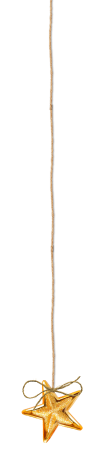
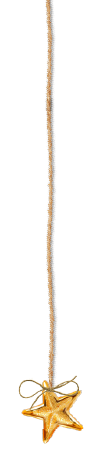
almost finished refactoring, also optimized images

Changed region(s): [[0.1731, 0.0, 0.8077, 0.9956]]

diff --git a/css/desktop.css b/css/desktop.css
@@ -298,6 +298,14 @@ html, body {
 
 
 /*===================== PAGE III =====================*/
+#thirdpage{
+	width: 100vw;
+	height: 100vh;
+	z-index: 10;
+	background: #000 url('../img/floor/woodfloor.jpg') no-repeat fixed bottom;
+	background-size: 100vw 10vh;
+
+}
 /**************** HANGIN STARS ********************/
 @-moz-keyframes swing{
 	0%{-moz-transform:rotate(-3deg)}
@@ -313,12 +321,12 @@ html, body {
 	height: 40vh;
 	width: auto;
 	z-index: 10000;
-	top: -15vh;
+	top: -65vh;
 }
 
 /*=========STAR A==========*/
 #starA{
-	left: 2%;
+	left: 2vw;
 	-moz-animation: 3s ease 0s normal none infinite swing;
 	-moz-transform-origin: center top;
 	-webkit-animation:swing 3s infinite ease-in-out;
@@ -326,7 +334,7 @@ html, body {
 }
 /*=========STAR B==========*/
 #starB{
-	left: 18%;
+	left: 18vw;
 	-moz-animation: 3.5s ease 0s normal none infinite swing;
 	-moz-transform-origin: center top;
 	-webkit-animation:swing 3.5s infinite ease-in-out;
@@ -334,7 +342,7 @@ html, body {
 }
 /*=========STAR C==========*/
 #starC{
-	left: 35%;
+	left: 35vw;
 	-moz-animation: 3.1s ease 0s normal none infinite swing;
 	-moz-transform-origin: center top;
 	-webkit-animation:swing 3.1s infinite ease-in-out;
@@ -342,7 +350,7 @@ html, body {
 }
 /*=========STAR D==========*/
 #starD{
-	left: 59%;
+	left: 59vw;
 	-moz-animation: 3.3s ease 0s normal none infinite swing;
 	-moz-transform-origin: center top;
 	-webkit-animation:swing 3.3s infinite ease-in-out;
@@ -358,18 +366,18 @@ html, body {
 }
 
 
-/*======DONUT CONTACT========*/
-#donutcontainer{
-	top:20%;
-	left: 92%;
+/*======BURGER CONTACT========*/
+#burgercontainer{
+	top: -70vh;
+	left: 92vw;
 }
-#donutcontainer:hover > #contactword{
+#burgercontainer:hover > #contactword{
 	-webkit-filter: brightness(1);
 	filter: brightness(1);
 	cursor: pointer;
 	cursor: hand;
 }
-#donut{
+#burger{
 	transition: .6s filter linear;
 	-webkit-transition: .6s -webkit-filter linear;
 	-moz-transition: .6s -moz-filter linear;
@@ -382,7 +390,7 @@ html, body {
 	-webkit-animation:swing 3.1s infinite ease-in-out;
 	-webkit-transform-origin:top;
 }
-#donut:hover{
+#burger:hover{
 	-webkit-filter: brightness(1);
 	filter: brightness(1);
 	cursor: pointer;
@@ -391,8 +399,8 @@ html, body {
 #contactword{
 	position: absolute;
 	z-index: 3;
-	top: 103%;
-	left: -45%;
+	top: 120%;
+	left: 0%;
 
 	max-height: 3vh;
 	min-height: 3vh;
@@ -410,14 +418,14 @@ html, body {
 }
 
 
-/*=========ICONS=========*/
+/********************ICONS********************/
+.iconContainer{
+	z-index: 1000000;
+	top: -100vw;	
+}
 .icon{
-	max-height: 75vh;
-	min-height: 75vh;
+	height: 75vh;
 	width: auto;
-
-
-
 
 	-webkit-filter: brightness(0.4);
 	filter: brightness(0.4);
@@ -429,10 +437,22 @@ html, body {
 	-ms-transition: .6s -ms-filter linear;
 	-o-transition: .6s -o-filter linear;	
 }
-.clicker:hover ~ .icon{
-	-webkit-filter: brightness(1);
-	filter: brightness(1);
+#newspaperContainer{
+	left: 10vw;
 }
+#suitContainer{
+	left: 30vw;
+}
+#briefcaseContainer{
+	left: 50vw;
+}
+#octocatContainer{
+	left: 72vw;
+}
+#pianoContainer{
+	left: 90vw;
+}
+
 
 /*=====ICON CLICKABLE AREA========*/
 .clicker{
@@ -449,6 +469,10 @@ html, body {
 	top: 60vh;
 	cursor: pointer;
 	cursor: hand;
+}
+.clicker:hover ~ .icon{
+	-webkit-filter: brightness(1);
+	filter: brightness(1);
 }
 #newspaperclicker{
 	/*left: -28%;*/

diff --git a/newnewindex.html b/newnewindex.html
@@ -123,19 +123,19 @@
 			<!-- ======= BG HANGING STARS -->
 			<div id="bgHanging">
 			<!-- STAR 1 -->
-				<img src="img/stars/star_3.png" alt="star 1" class="fixed dim bg-star fullcentered" id="starA">
+				<img src="img/stars/star_3.png" alt="star 1" class="dim bg-star fullcentered fixed" id="starA">
 			<!-- STAR 2 -->
-				<img src="img/stars/star_2.png" alt="star 1" class="fixed dim bg-star fullcentered" id="starB">
+				<img src="img/stars/star_2.png" alt="star 1" class="dim bg-star fullcentered fixed" id="starB">
 			<!-- STAR 3 -->
-				<img src="img/stars/star_1.png" alt="star 1" class="fixed dim bg-star fullcentered" id="starC">
+				<img src="img/stars/star_1.png" alt="star 1" class="dim bg-star fullcentered fixed" id="starC">
 			<!-- STAR 4 -->
-				<img src="img/stars/star_4.png" alt="star 1" class="fixed dim bg-star fullcentered" id="starD">
+				<img src="img/stars/star_4.png" alt="star 1" class="dim bg-star fullcentered fixed" id="starD">
 			<!-- STAR 5 -->
-				<img src="img/stars/star_5.png" alt="star 1" class="fixed dim bg-star fullcentered" id="starE">
+				<img src="img/stars/star_5.png" alt="star 1" class="dim bg-star fullcentered fixed" id="starE">
 
 			<!-- CONTACT -->
-				<div class="fixed bg-star fullcentered" id="donutcontainer">
-					<img src="img/icons/donut.png" alt="contact menu" class="dim" id="donut">	
+				<div class="bg-star fixed" id="burgercontainer">
+					<img src="img/stars/burger.png" alt="contact menu" class="dim" id="burger">	
 					<img src="img/words/contact.png" alt="contact" class="dim" id="contactword">
 				</div>
 			</div>
@@ -144,7 +144,7 @@
 			<!-- ================ICONS================ -->
 			<div id="icons">
 			<!-- Newspaper -->
-				<div class="fixed">
+				<div id="newspaperContainer" class="fixed iconContainer centered">
 					<!-- Clickable -->
 					<a href="http://www.thomaswrotethis.com/" id="newspaperclicker" class="clicker" target="_blank" style="target-new: tab;"></a>
 					<!-- Icon -->
@@ -156,7 +156,7 @@
 				<div class="shadow centered" id="newspapershadow"></div>
 				
 			<!-- Suit -->
-				<div class="fixed">
+				<div id="suitContainer" class="fixed iconContainer centered">
 					<!-- Clickable -->
 					<a href="http://www.linkedin.com/in/thomasjedstrom" id="suitclicker" class="clicker" target="_blank" style="target-new: tab;"></a>
 					<!-- Icon -->
@@ -168,7 +168,7 @@
 				<div class="shadow centered" id="suitshadow"></div>
 
 			<!-- Briefcase / Portfolio -->
-				<div class="fixed">
+				<div id="briefcaseContainer" class="fixed iconContainer centered">
 					<!-- Clickable -->
 					<div id="briefcaseclicker" class="clicker"></div>
 					<!-- Icon -->
@@ -180,7 +180,7 @@
 				<div class="shadow centered" id="briefcaseshadow"></div>
 
 			<!-- Octocat -->
-				<div class="fixed">
+				<div id="octocatContainer" class="fixed iconContainer centered">
 					<!-- Clickable -->
 					<a href="http://www.github.com/thomasjedstrom" id="octocatclicker" class="clicker" target="_blank" style="target-new: tab;"></a>
 					<!-- Icon -->
@@ -192,7 +192,7 @@
 				<div class="shadow centered" id="octocatshadow"></div>
 
 			<!-- PIANO -->
-				<div class="fixed">
+				<div id="pianoContainer" class="fixed iconContainer centered">
 					<!-- Clickable -->
 					<div id="pianoclicker" class="clicker"></div>
 					<!-- Icon -->

diff --git a/js/app.js b/js/app.js
@@ -50,10 +50,12 @@ $(function () {
 	var $isAnimatedSecond = $('.is-animated'),
 		$isAnimatedSecondSingle = $('.second .is-animated__single');
 
-	var $curtainL = $('#curtain1'),
-		$curtainR = $('#curtain2'),
-		$bgHanging = $('#bgHanging'),
-		$fader = $('.fader');
+	var $curtainL	= $('#curtain1'),
+		$curtainR	= $('#curtain2'),
+		$fader 		= $('.fader'),
+		$bgHanging	= $('.bg-star'),
+		$icon 		= $('.iconContainer');
+		
 
 	// initialize fullPage
 	$('#fullpage').fullpage({
@@ -66,13 +68,16 @@ $(function () {
 				$curtainL.animate({'left': "-=50vw"}, "slow");
 				$curtainR.animate({'left': "+=50vw"}, "slow");
 				$fader.fadeOut('slow');
-				// $bgHanging.addClass('animated slideInDown');
+				$bgHanging.animate({'top': "+=50vh"}, "slow");
+				$icon.animate({'top': "+=132vh"}, 1200);
 
 			// Page 3 - Page 2
 			}else if( index == 3 && direction == 'up') {
 				$curtainL.animate({'left': "+=50vw"}, "slow");
 				$curtainR.animate({'left': "-=50vw"}, "slow");
 				$fader.fadeIn('slow');
+				$bgHanging.animate({'top': "-=50vh"}, "slow");
+				$icon.animate({'top': "-=132vh"}, 800);
 			}
 
 			// second animation
@@ -165,7 +170,7 @@ $(function () {
 
 	// CONTACT
 	var contact = $('#contact-box');
-	$("#donut")				.click(()=>{contact[0].style.display = "block"})
+	$("#burger")				.click(()=>{contact[0].style.display = "block"})
 	$("#contactword")		.click(()=>{contact[0].style.display = "block"})
 	
 	// PORTFOLIO
